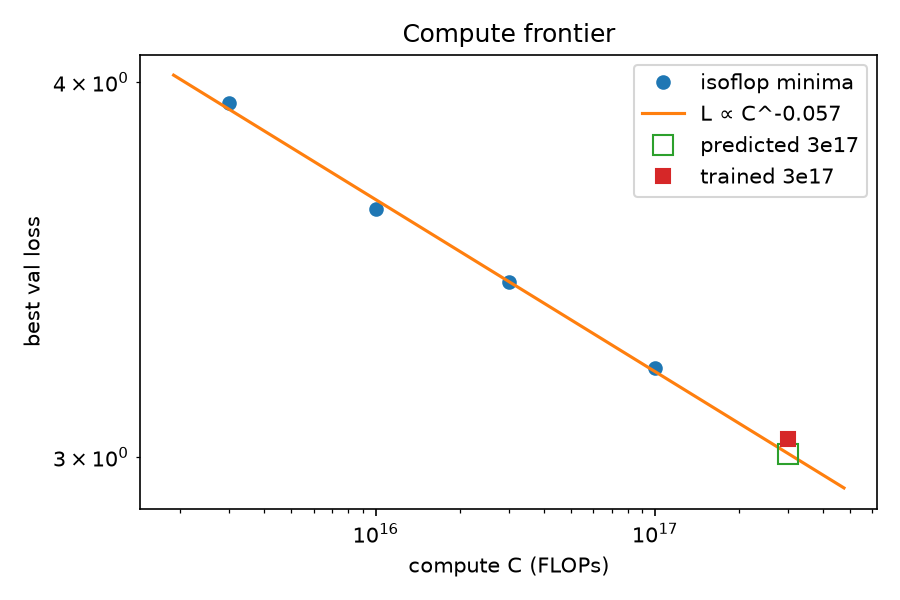
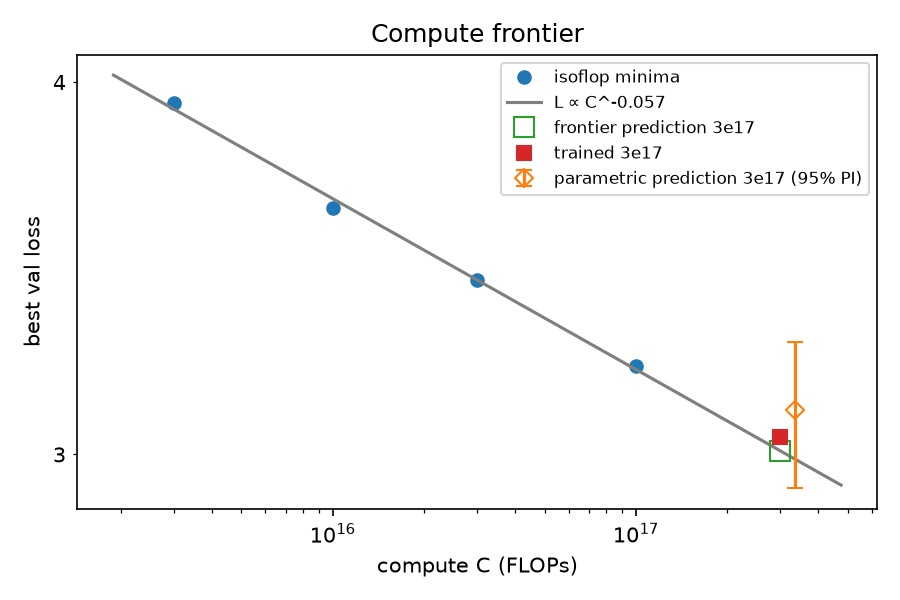
README: lead with the prediction test, add hero figure, condense implementation section
Frontier figure now shows the parametric prediction with its 95% interval.

diff --git a/analysis/plots.py b/analysis/plots.py
@@ -15,6 +15,7 @@ import matplotlib
 matplotlib.use("Agg")
 import matplotlib.pyplot as plt  # noqa: E402
 import numpy as np  # noqa: E402
+from matplotlib.ticker import ScalarFormatter  # noqa: E402
 
 
 def _save(fig, path) -> Path:
@@ -65,20 +66,26 @@ def plot_optima(optima, exps, path, predicted=None, actual=None) -> Path:
     return _save(fig, path)
 
 
-def plot_frontier(optima, path, predicted=None, actual=None) -> Path:
+def plot_frontier(optima, path, predicted=None, actual=None, parametric=None) -> Path:
     c = np.array([o["budget"] for o in optima])
     lmin = np.array([o["loss_min"] for o in optima])
     slope, icpt = np.polyfit(np.log(c), np.log(lmin), 1)
     cs = np.logspace(np.log10(c.min()) - 0.2, np.log10(max(c.max(), predicted[0] if predicted else 0)) + 0.2, 50)
     fig, ax = plt.subplots(figsize=(6, 4))
     ax.plot(c, lmin, "o", label="isoflop minima")
-    ax.plot(cs, np.exp(icpt + slope * np.log(cs)), "-", label=f"L ∝ C^{slope:.3f}")
+    ax.plot(cs, np.exp(icpt + slope * np.log(cs)), "-", color="C7", label=f"L ∝ C^{slope:.3f}")
     if predicted:
-        ax.plot(*predicted, "s", mfc="none", markersize=10, label="predicted 3e17")
+        ax.plot(*predicted, "s", color="C2", mfc="none", markersize=10, label="frontier prediction 3e17")
+    if parametric:  # (C, value, lo, hi): drawn just right of C so it doesn't hide the other markers
+        pc, pv, lo, hi = parametric
+        ax.errorbar(pc * 1.12, pv, yerr=[[pv - lo], [hi - pv]], fmt="D", color="C1", mfc="none", capsize=4,
+                    label="parametric prediction 3e17 (95% PI)")
     if actual:
-        ax.plot(*actual, "s", markersize=7, label="trained 3e17")
+        ax.plot(*actual, "s", color="C3", markersize=7, label="trained 3e17")
     ax.set(xscale="log", yscale="log", xlabel="compute C (FLOPs)", ylabel="best val loss", title="Compute frontier")
-    ax.legend()
+    ax.yaxis.set_major_formatter(ScalarFormatter())
+    ax.yaxis.set_minor_formatter(ScalarFormatter())
+    ax.legend(loc="upper right", fontsize=8)
     return _save(fig, path)
 
 
@@ -195,9 +202,11 @@ def main(results_dir="results", out_dir="figures") -> None:
         a_n = (pred["budget"], pred["declared"]["n_params"]) if pred and outcome else None
         p_l = (pred["budget"], pred["predicted_loss"]["isoflop_frontier"]["value"]) if pred else None
         a_l = (pred["budget"], outcome["actual_val_loss"]) if outcome else None
+        pp = pred["predicted_loss"]["parametric"] if pred else None
+        p_p = (pred["budget"], pp["value"], pp["pred_lo"], pp["pred_hi"]) if pred else None
         plot_isoflop(optima, Path(out_dir, "isoflop.png"))
         plot_optima(optima, exps, Path(out_dir, "optima.png"), predicted=p_n, actual=a_n)
-        plot_frontier(optima, Path(out_dir, "frontier.png"), predicted=p_l, actual=a_l)
+        plot_frontier(optima, Path(out_dir, "frontier.png"), predicted=p_l, actual=a_l, parametric=p_p)
         plot_tokens_per_param(optima, Path(out_dir, "tokens_per_param.png"))
     rule = root / "lr_rule.json"
     if rule.exists():

diff --git a/tests/test_plots.py b/tests/test_plots.py
@@ -17,7 +17,8 @@ def test_plots_write_files(tmp_path):
     paths = [
         plots.plot_isoflop(optima, tmp_path / "isoflop.png"),
         plots.plot_optima(optima, exps, tmp_path / "optima.png", predicted=(3e17, 1e7), actual=(3e17, 1.1e7)),
-        plots.plot_frontier(optima, tmp_path / "frontier.png", predicted=(3e17, 3.7), actual=(3e17, 3.72)),
+        plots.plot_frontier(optima, tmp_path / "frontier.png", predicted=(3e17, 3.7), actual=(3e17, 3.72),
+                            parametric=(3e17, 3.75, 3.6, 3.9)),
         plots.plot_tokens_per_param(optima, tmp_path / "tpp.png"),
         plots.plot_lr_sweep([{"budget": 3e15, "ratio": 80.0, "n_params": 2.5e6, "lrs": [1e-3, 2e-3, 4e-3],
                               "losses": [4.1, 4.0, float("inf")], "best_lr": 2e-3}], tmp_path / "lr.png"),

diff --git a/README.md b/README.md
@@ -4,27 +4,20 @@ I trained 79 Llama-style GPT runs (2.6M to 57M parameters) on FineWeb-Edu. From 
 
 **TL;DR**
 
-- **Exponent a in N_opt ∝ C^a:** isoflop fit **0.545** [0.120, 1.665]; parametric fit **0.565** [0.144, 0.881]. The two methods agree, and both are close to Chinchilla's ~0.5.
+- **A pre-registered prediction at 3x the largest training budget held.** Before the C = 3e17 run (57.1M params, 875M tokens), I committed and git-tagged two predicted losses: parametric fit 3.106 (95% prediction interval 2.92-3.27) and isoflop frontier 3.008. **Actual: 3.041.** It falls between the two, within 1σ of seed noise of each (-0.76σ and +0.38σ).
+- **Exponent a in N_opt ∝ C^a:** isoflop fit 0.545, parametric fit 0.565. The two methods agree with each other and are consistent with Chinchilla's ~0.5, but neither pins a down: the 95% intervals are [0.120, 1.665] and [0.144, 0.881]. Four budgets over a 33x compute range are not enough. The loss prediction is the sharp result here; the exponent is not.
 - **Tokens per parameter at the optimum:** 25, 20, 16 and 19 at budgets 3e15, 1e16, 3e16 and 1e17 FLOPs.
-- **Pre-registered prediction at C = 3e17** (57.1M params, 875M tokens): parametric 3.106, isoflop frontier 3.008. **Actual: 3.0407.** The parametric prediction landed inside both of its intervals, at -0.76σ of seed noise.
 - **Total cost:** 79 runs, 4.56 GPU-hours, **$18.00**.
 
 Links: [W&B report](https://forge.coreweave.com/wandb/jfdasher-thermopylae-systems/gptlab-scaling/reports/Small-GPT-scaling-laws,-from-scratch--VmlldzoxODE1NDAzMg==) · [HF model (the 3e17 test run)](https://huggingface.co/jfdasher/gptlab-57m-3e17) · [Repo](https://github.com/jfdasher/gpt-scaling-laws-from-scratch)
 
 Only the 57M test-run model is published on Hugging Face. The grid models are described here but not uploaded.
 
-## What happens in a training step
+![Compute frontier with the pre-registered 3e17 predictions and the trained result](figures/frontier.png)
 
-The model ([gptlab/model.py](gptlab/model.py)) is a Llama-style decoder: RoPE, RMSNorm, SwiGLU, tied embeddings, head dim 64 and context 512. Module names mirror HF `LlamaForCausalLM`, so export is a key rename. One optimizer step in [gptlab/train.py](gptlab/train.py) goes like this:
+## Implementation
 
-1. **LR from the schedule** ([L340-L342](gptlab/train.py#L340-L342)). `lr_at` in [gptlab/schedule.py](gptlab/schedule.py) gives linear warmup over 5% of steps, then cosine decay to 10% of peak. The schedule is sized to each run's own length.
-2. **Forward and backward over micro-batches** ([`forward_backward`, L160-L171](gptlab/train.py#L160-L171)). One step is `batch_tokens / (micro_batch * 512)` micro-batches. Each one reads a deterministic slice of the token stream (`step * accum + micro`, which makes resume exact). The forward pass runs under bf16 autocast ([L125-L127](gptlab/train.py#L125-L127)), and the loss is computed in fp32 ([`loss_fn`](gptlab/model.py#L157-L164), with optional z-loss). Each micro-batch backpropagates `total / accum`, so gradients accumulate to the mean over the step. The returned value is the mean plain cross-entropy.
-3. **Non-finite loss guard** ([L344-L350](gptlab/train.py#L344-L350)). A NaN or inf loss writes forensics: the model and optimizer state, the token span and a `FAILED` marker. The run then fails loudly, and Modal does not retry it.
-4. **Clipping** ([L356-L364](gptlab/train.py#L356-L364)). `clip_grad_norm_(..., 1.0)` returns the *pre-clip* norm, which is what gets logged. A non-finite norm is caught *before* `optimizer.step()`, because a NaN clip coefficient would poison every weight. Per-layer gradient norms are also taken pre-clip ([L353](gptlab/train.py#L353)).
-5. **Fused AdamW, then zero_grad** ([L365-L366](gptlab/train.py#L365-L366)). The optimizer ([L130-L134](gptlab/train.py#L130-L134)) is `torch.optim.AdamW(fused=True)`: β = (0.9, 0.95) and weight decay 0.1 on matrices only. Gradients are then zeroed with `set_to_none=True`.
-6. **Checkpoint on a timer** ([L388-L390](gptlab/train.py#L388-L390)). Every 600 s the model, optimizer, step, accumulated GPU seconds and RNG state are written atomically ([L137-L149](gptlab/train.py#L137-L149)) and committed to a Modal volume.
-
-[gptlab/reference.py](gptlab/reference.py) holds a hand-written AdamW (bias-corrected moments, decoupled weight decay) and a hand-written causal attention. They exist to make the mechanics explicit. [tests/test_reference.py](tests/test_reference.py) checks them for parity against `torch.optim.AdamW` and `F.scaled_dot_product_attention`.
+The model ([gptlab/model.py](gptlab/model.py)) is a Llama-style decoder (RoPE, RMSNorm, SwiGLU, tied embeddings, context 512) whose module names mirror HF `LlamaForCausalLM`. The training loop in [gptlab/train.py](gptlab/train.py) is hand-written, with no HF Trainer: bf16 autocast with an fp32 loss, gradient accumulation, pre-clip gradient-norm logging, fused AdamW and a cosine schedule sized to each run. A non-finite loss or gradient norm halts the run with forensics before the optimizer step, and timed atomic checkpoints (including RNG state and data position) make preemption resume exact. [gptlab/reference.py](gptlab/reference.py) holds a hand-written AdamW and causal attention, parity-tested against PyTorch in [tests/test_reference.py](tests/test_reference.py).
 
 ## Data and evaluation protocol
 
@@ -54,7 +47,7 @@ The model ([gptlab/model.py](gptlab/model.py)) is a Llama-style decoder: RoPE, R
 
 **Compute accounting.** C = 6ND, where N is the *total* parameter count, embeddings included (tied, so counted once) ([gptlab/flops.py](gptlab/flops.py)). Attention FLOPs (the QKᵀ and AV terms) are omitted. At seq_len 512 they are a small but nonzero share of compute, larger for the smallest models.
 
-**Run identity and resume.** A run's ID is a SHA-256 of its behaviour-relevant config ([L63-L65](gptlab/train.py#L63-L65)). A run whose `result.json` exists is never retrained, and runs shared between phases (for example the 3e16/r20 baseline) are reused rather than repeated. Modal containers can be preempted. On restart, a run resumes from its last atomic checkpoint, including the RNG state and data position. [tests/test_train.py](tests/test_train.py) checks that resume is exact on CPU in fp32. On Modal, a smoke run was preempted at step 100 of 200, resumed through a Modal retry, and logged every step exactly once. Each result's `git_commit` ends in `-dirty` when untracked or uncommitted local files existed at launch time; runs remain traceable by config and run_id.
+**Run identity and resume.** A run's ID is a SHA-256 of its behaviour-relevant config (`run_id` in [gptlab/train.py](gptlab/train.py)). A run whose `result.json` exists is never retrained, and runs shared between phases (for example the 3e16/r20 baseline) are reused rather than repeated. Modal containers can be preempted. On restart, a run resumes from its last atomic checkpoint, including the RNG state and data position. [tests/test_train.py](tests/test_train.py) checks that resume is exact on CPU in fp32. On Modal, a smoke run was preempted at step 100 of 200, resumed through a Modal retry, and logged every step exactly once. Each result's `git_commit` ends in `-dirty` when untracked or uncommitted local files existed at launch time; runs remain traceable by config and run_id.
 
 ## Scaling results
 
@@ -84,7 +77,6 @@ All four optima are interior. The fit gives **a = 0.545 [0.120, 1.665]** and b =
 
 ![IsoFLOP curves](figures/isoflop.png)
 ![Optima](figures/optima.png)
-![Frontier](figures/frontier.png)
 ![Tokens per parameter](figures/tokens_per_param.png)
 
 **Prediction test at C = 3e17.** [predictions/3e17.json](predictions/3e17.json) was committed and tagged `prediction-3e17` before the test run started. The isoflop fit put N_opt at 57.1M [10.5M, 1.21B], and the parametric fit at 56.3M [31.4M, 140M]. I declared a run of 17 layers × 512 (57,132,544 params) on 875,167,744 tokens (15.3 tokens/param) at LR 1.22e-3 from the rule. Outcome ([predictions/3e17_outcome.json](predictions/3e17_outcome.json)):
